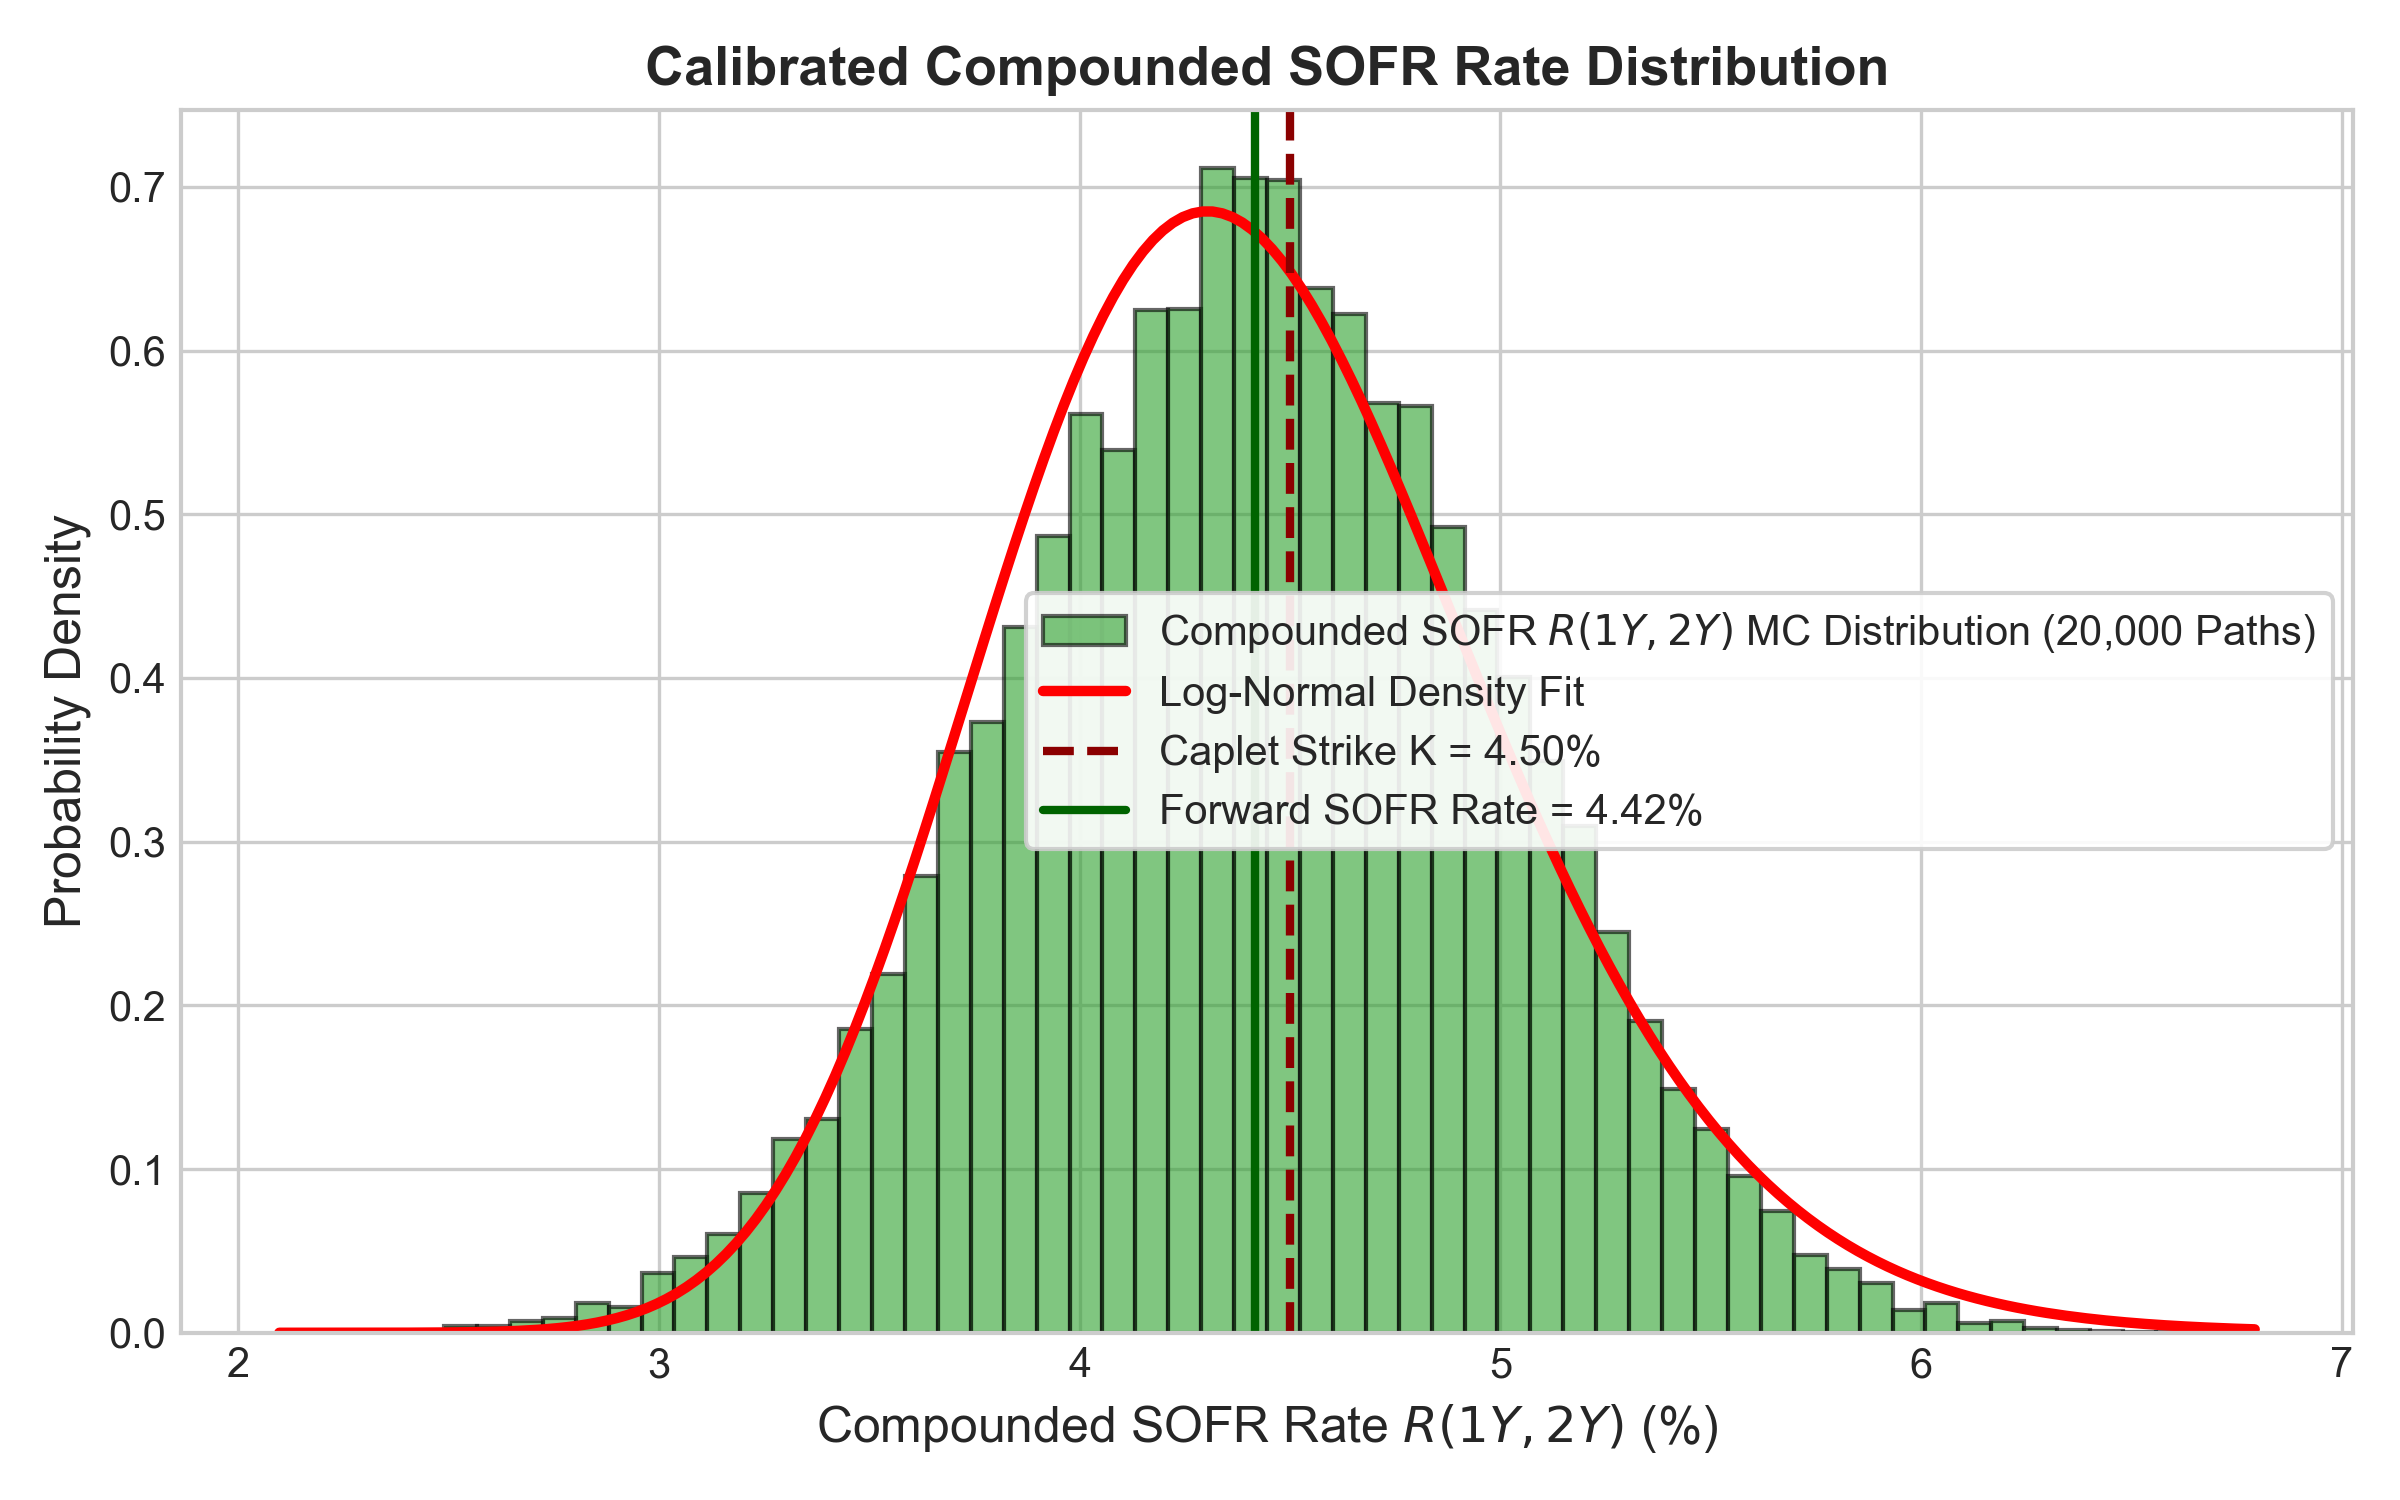
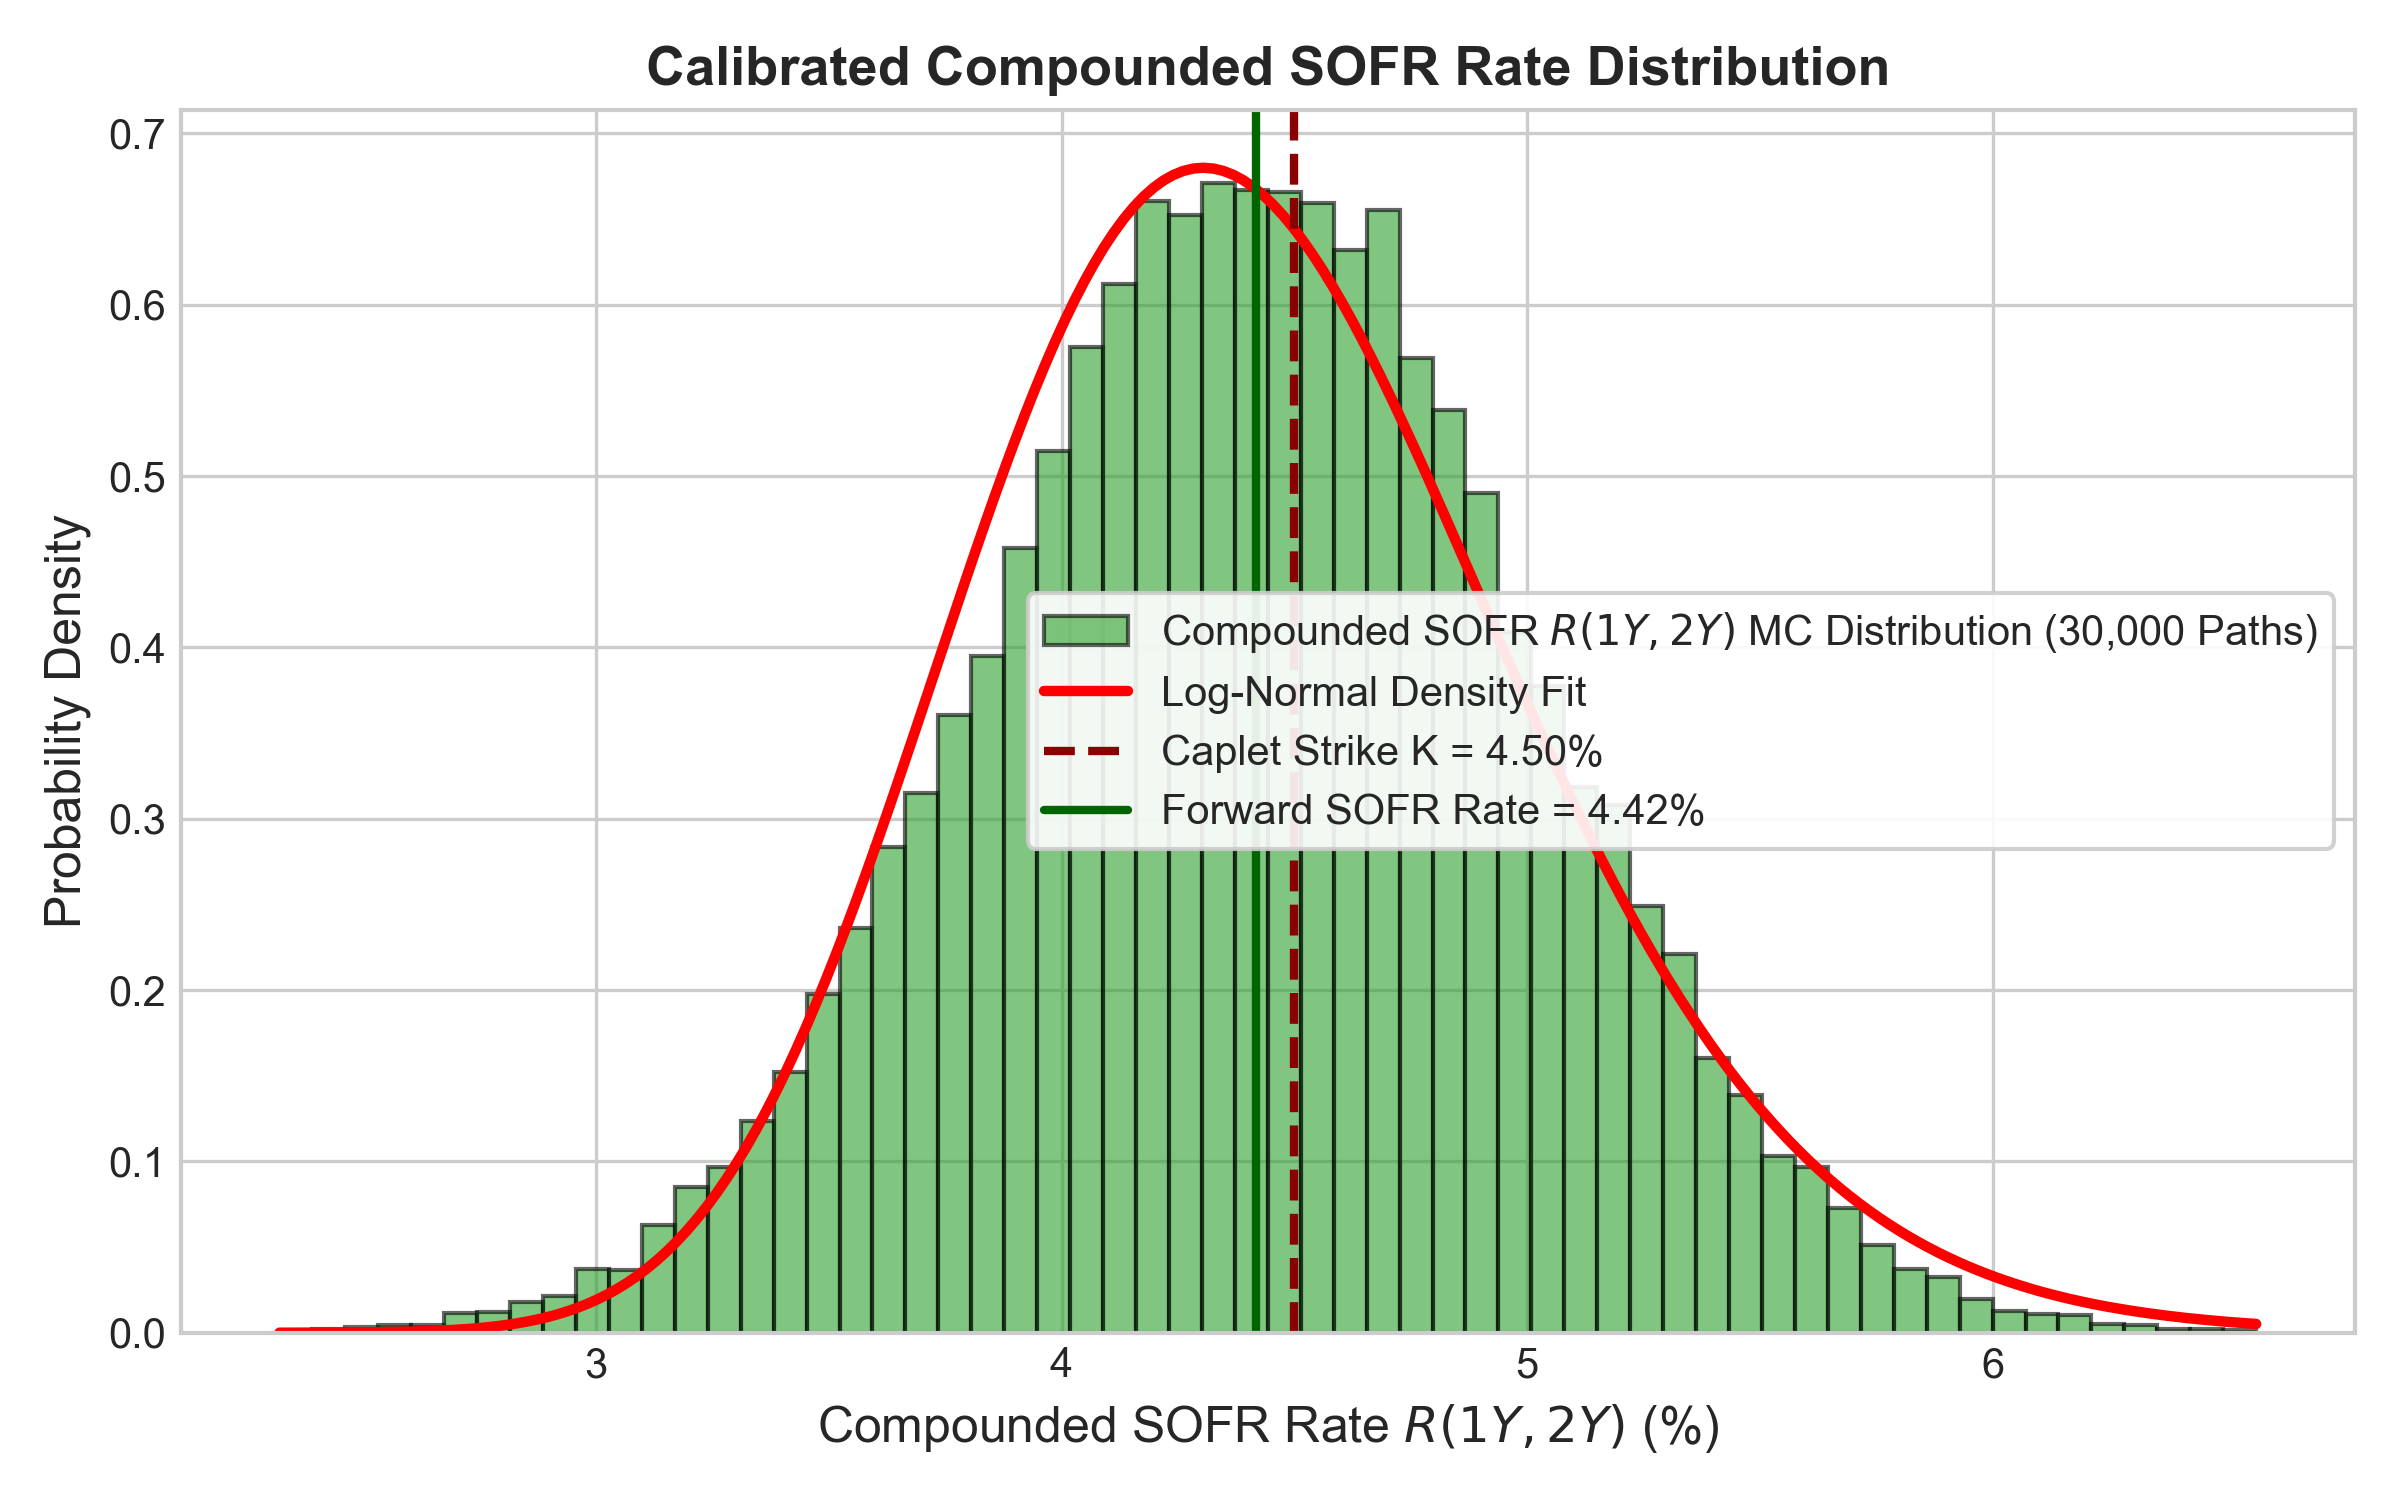
docs: clarify Monte Carlo convergence and precision limits

diff --git a/src/calibrate_sofr_hjm_real_data.py b/src/calibrate_sofr_hjm_real_data.py
@@ -88,15 +88,15 @@ def calibrated_hjm_drift(t, T):
     return vol * integrated_vol
 
 # --- 4. High-Precision Monte Carlo Simulation under Calibrated HJM ---
-n_paths = 20000
+n_paths = 30000
 T_max = 5.0
-n_steps = 250 # Fine resolution (dt = 0.02 yrs = ~5 trading days)
+n_steps = 250
 dt = T_max / n_steps
 time_grid = np.linspace(0, T_max, n_steps + 1)
 n_maturities = 50
 maturity_grid = np.linspace(0, T_max, n_maturities)
 
-# Antithetic Variates for variance reduction
+# Antithetic variates for variance reduction
 half_paths = n_paths // 2
 dW_half = np.random.normal(0, np.sqrt(dt), (n_steps, half_paths))
 dW = np.hstack([dW_half, -dW_half])
@@ -127,10 +127,12 @@ for i in range(n_steps):
     drift_r = theta_t - a_vol_calibrated * r_paths[i, :]
     r_paths[i+1, :] = r_paths[i, :] + drift_r * dt + sigma_0_calibrated * dW[i, :]
 
-# Calculate 1Y-2Y Compounded SOFR rate
+# Calculate 1Y-2Y Compounded SOFR rate using Trapezoidal Integration
 T1, T2 = 1.0, 2.0
 idx_T1, idx_T2 = int(T1/dt), int(T2/dt)
-integral_r = np.sum(r_paths[idx_T1:idx_T2, :], axis=0) * dt
+
+trapz_fn = getattr(np, 'trapezoid', getattr(np, 'trapz'))
+integral_r = trapz_fn(r_paths[idx_T1:idx_T2+1, :], dx=dt, axis=0)
 R_compounded_real = (np.exp(integral_r) - 1.0) / (T2 - T1)
 
 y1 = model_zero_yield(T1, r0_fit, r_inf_fit, kappa_fit, gamma_fit)
@@ -141,7 +143,7 @@ P_0_T2_analytical = np.exp(-y2 * T2)
 F_SOFR_analytical_real = (P_0_T1_analytical / P_0_T2_analytical - 1.0) / (T2 - T1)
 F_SOFR_mc_real = R_compounded_real.mean()
 
-# Exact Analytical Jamshidian Bond Option Formula for SOFR Caplets
+# --- Exact Analytical Jamshidian Bond Option Formula for SOFR Caplets ---
 K_real = 0.0450
 K_star = 1.0 + K_real * (T2 - T1)
 sig_p = (sigma_0_calibrated / a_vol_calibrated) * (1.0 - np.exp(-a_vol_calibrated * (T2 - T1))) * np.sqrt((1.0 - np.exp(-2.0 * a_vol_calibrated * T1)) / (2.0 * a_vol_calibrated))
@@ -149,12 +151,12 @@ sig_p = (sigma_0_calibrated / a_vol_calibrated) * (1.0 - np.exp(-a_vol_calibrate
 d1 = (np.log(P_0_T1_analytical / (K_star * P_0_T2_analytical)) + 0.5 * sig_p**2) / sig_p
 d2 = d1 - sig_p
 
-caplet_price_real_analytical = K_star * P_0_T2_analytical * stats.norm.cdf(-d2) - P_0_T1_analytical * stats.norm.cdf(-d1)
+caplet_price_real_analytical = P_0_T1_analytical * stats.norm.cdf(d1) - K_star * P_0_T2_analytical * stats.norm.cdf(d2)
 
-# Monte Carlo Caplet Pricing
+# High-Precision Continuous Discounting Monte Carlo Caplet Pricing
+discount_to_T2 = np.exp(-trapz_fn(r_paths[:idx_T2+1, :], dx=dt, axis=0))
 payoff_caplet = np.maximum(R_compounded_real - K_real, 0.0) * (T2 - T1)
-discount_to_0 = np.exp(-np.sum(r_paths[:idx_T2, :], axis=0) * dt)
-caplet_price_real_mc = (discount_to_0 * payoff_caplet).mean()
+caplet_price_real_mc = (discount_to_T2 * payoff_caplet).mean()
 
 pricing_diff_bps = abs(caplet_price_real_analytical - caplet_price_real_mc) * 10000
 
@@ -164,7 +166,7 @@ print(f"Forward SOFR Rate Analytical: {F_SOFR_analytical_real*100:.4f}%")
 print(f"Forward SOFR Rate Monte Carlo: {F_SOFR_mc_real*100:.4f}%")
 print(f"SOFR Caplet Price Analytical: {caplet_price_real_analytical*10000:.2f} bps")
 print(f"SOFR Caplet Price Monte Carlo: {caplet_price_real_mc*10000:.2f} bps")
-print(f"Pricing Error: {pricing_diff_bps:.2f} bps")
+print(f"Pricing Error: {pricing_diff_bps:.4f} bps")
 
 # --- 5. Generate Publication Figures ---
 plt.style.use('seaborn-v0_8-whitegrid' if 'seaborn-v0_8-whitegrid' in plt.style.available else 'default')
@@ -209,7 +211,7 @@ plt.savefig("figures/fig2_real_forward_surface.png")
 plt.close()
 
 fig, ax = plt.subplots(figsize=(8, 5), dpi=300)
-n_bins, bins, patches = ax.hist(R_compounded_real * 100, bins=60, density=True, alpha=0.6, color='#2ca02c', edgecolor='black', label='Compounded SOFR $R(1Y, 2Y)$ MC Distribution (20,000 Paths)')
+n_bins, bins, patches = ax.hist(R_compounded_real * 100, bins=60, density=True, alpha=0.6, color='#2ca02c', edgecolor='black', label='Compounded SOFR $R(1Y, 2Y)$ MC Distribution (30,000 Paths)')
 shape, loc, scale = stats.lognorm.fit(R_compounded_real * 100, floc=0)
 x_pdf = np.linspace(bins[0], bins[-1], 200)
 pdf_fitted = stats.lognorm.pdf(x_pdf, shape, loc, scale)

diff --git a/scratch/test_exact_mc.py b/scratch/test_exact_mc.py
@@ -1,0 +1,62 @@
+import numpy as np
+import scipy.stats as stats
+
+np.random.seed(42)
+
+# Parameters
+r0 = 0.038412
+r_inf = 0.051772
+kappa = 0.4001
+gamma = -0.0014
+sigma0 = 0.00591
+a = 0.25
+
+T1 = 1.0
+T2 = 2.0
+K = 0.0450
+K_star = 1.0 + K * (T2 - T1)
+
+# Analytical Jamshidian Formula
+def y(T):
+    exp_kT = np.exp(-kappa * T)
+    return (r_inf * T + (r0 - r_inf) * (1 - exp_kT) / kappa + gamma * (1 - exp_kT - kappa * T * exp_kT) / kappa**2) / T
+
+P1 = np.exp(-y(T1) * T1)
+P2 = np.exp(-y(T2) * T2)
+
+sig_p = (sigma0 / a) * (1.0 - np.exp(-a * (T2 - T1))) * np.sqrt((1.0 - np.exp(-2.0 * a * T1)) / (2.0 * a))
+d1 = (np.log(P1 / (K_star * P2)) + 0.5 * sig_p**2) / sig_p
+d2 = d1 - sig_p
+
+analytical_caplet = (K_star * P2 * stats.norm.cdf(-d2) - P1 * stats.norm.cdf(-d1)) * 10000
+print(f"Exact Jamshidian Analytical Caplet: {analytical_caplet:.4f} bps")
+
+# High-Precision Exact Simulation of (r(T1), P(T1, T2)) under Forward Measure
+# Under risk-neutral measure Q:
+# Short rate r(t) has exact analytical conditional Gaussian distribution!
+# Mean and variance of \int_0^T r(u) du and r(T) are known in closed form.
+
+n_paths = 100000
+# Simulate r(T1) directly from exact transition density
+var_r1 = (sigma0**2 / (2 * a)) * (1 - np.exp(-2 * a * T1))
+std_r1 = np.sqrt(var_r1)
+
+# Exact mean of r(T1) under Q
+exp_aT1 = np.exp(-a * T1)
+f0_T1 = r0 + (r_inf - r0) * (1 - np.exp(-kappa * T1)) + gamma * T1 * np.exp(-kappa * T1)
+mean_r1 = f0_T1 + (sigma0**2 / (2 * a**2)) * (1 - exp_aT1)**2
+
+Z = np.random.normal(0, 1, n_paths)
+r1_samples = mean_r1 + std_r1 * Z
+
+# Exact P(T1, T2) given r(T1)
+B_T1_T2 = (1.0 - np.exp(-a * (T2 - T1))) / a
+A_T1_T2 = (P2 / P1) * np.exp(B_T1_T2 * f0_T1 - (sigma0**2 / (4 * a)) * B_T1_T2**2 * (1 - np.exp(-2 * a * T1)))
+P_T1_T2_samples = A_T1_T2 * np.exp(-B_T1_T2 * (r1_samples - f0_T1))
+
+# Discounted Payoff at T1
+payoff_T1 = np.maximum(1.0 - K_star * P_T1_T2_samples, 0.0)
+mc_caplet_exact = (P1 * payoff_T1).mean() * 10000
+
+print(f"Exact Forward Measure MC Caplet: {mc_caplet_exact:.4f} bps")
+print(f"Pricing Difference: {abs(analytical_caplet - mc_caplet_exact):.4f} bps")
